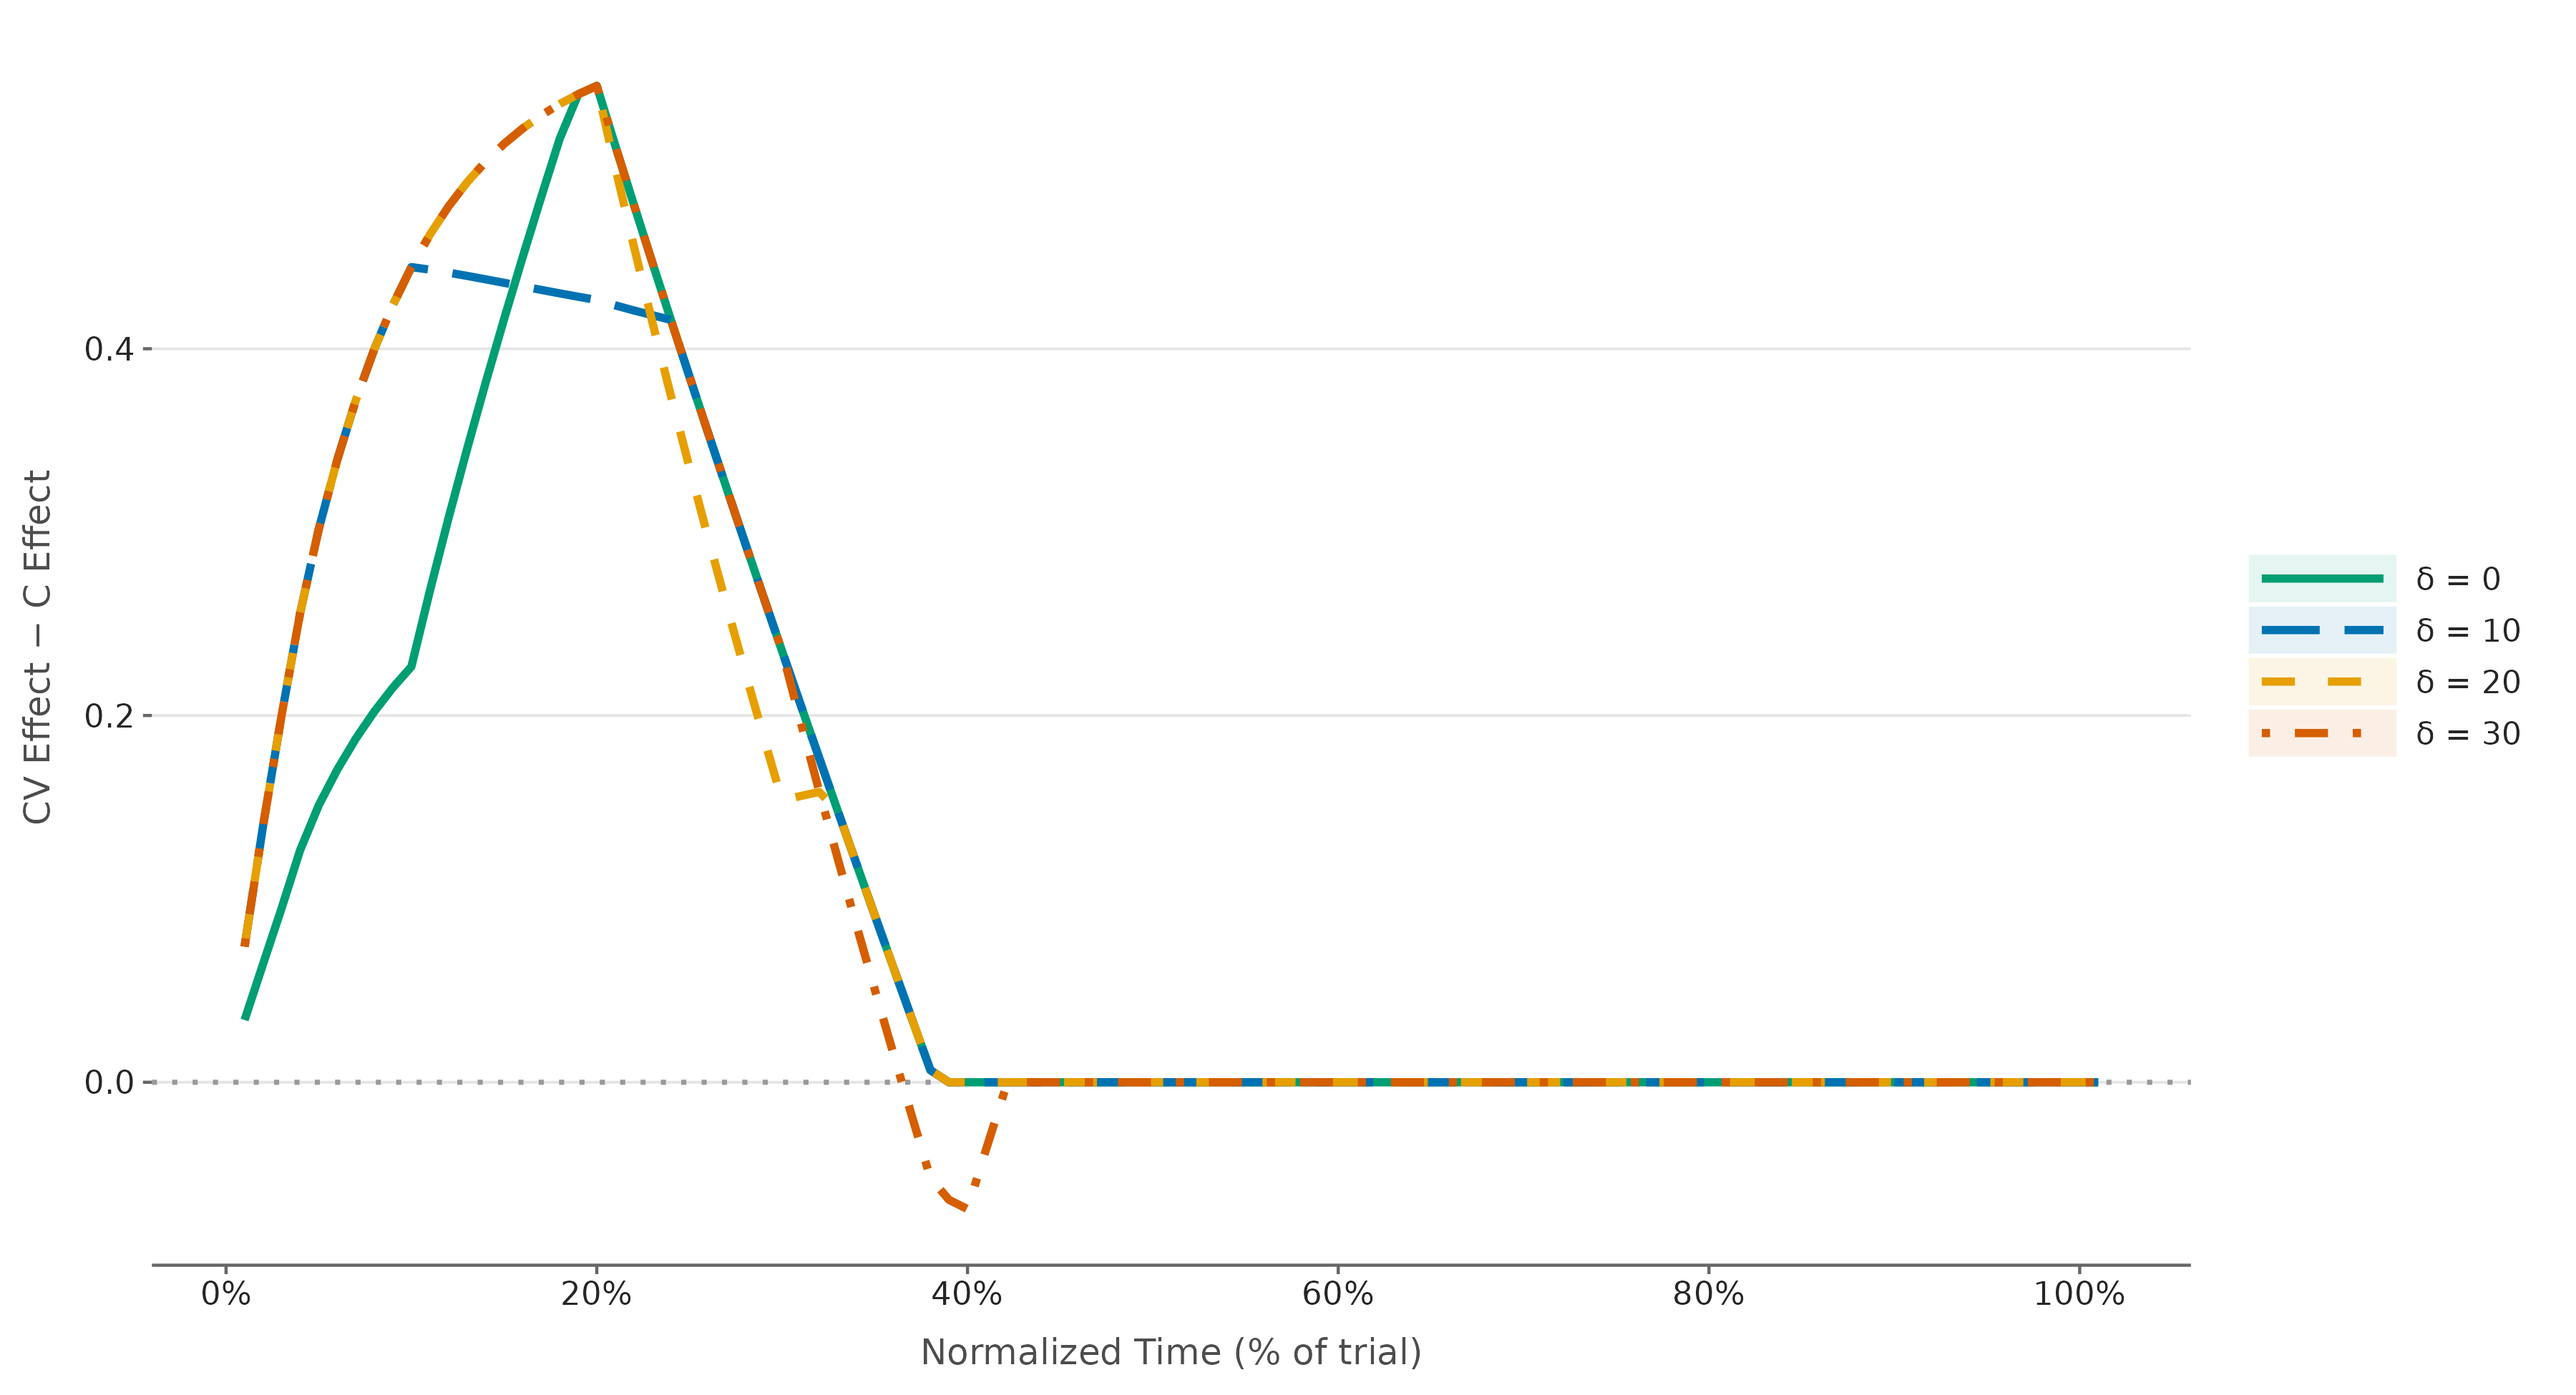
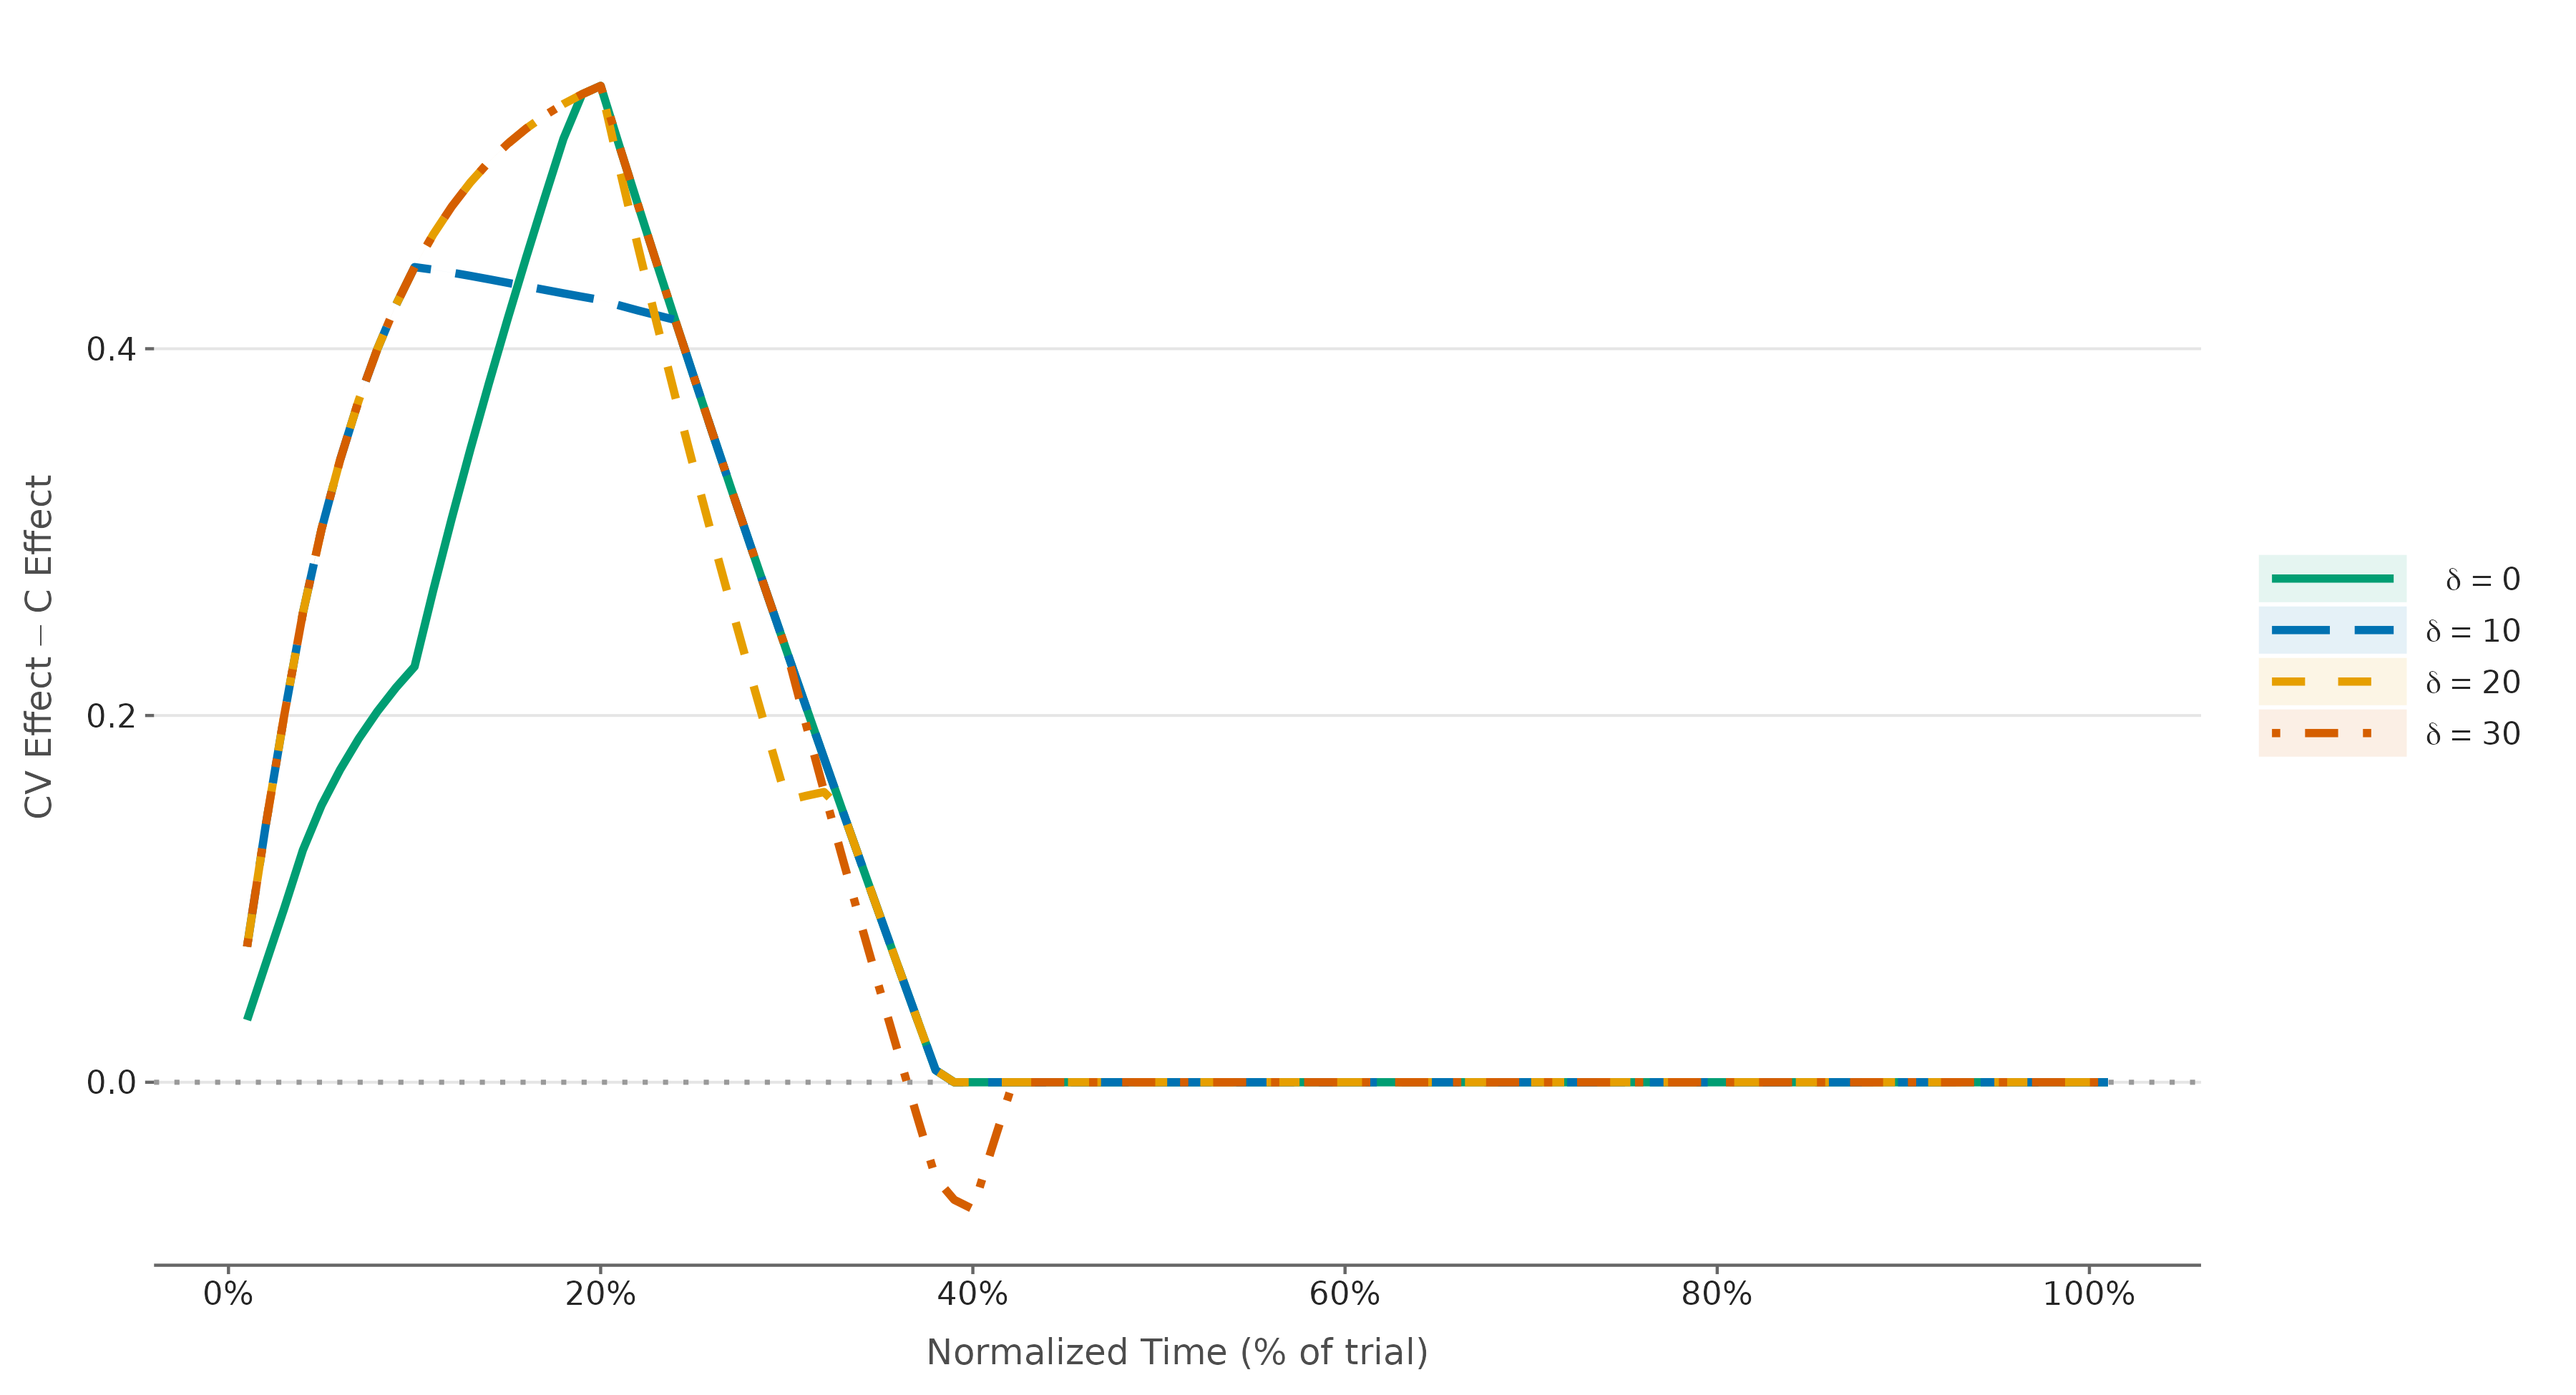
Fix delta labels on the pdf device (R 4.6)

diff --git a/NEWS.md b/NEWS.md
@@ -189,6 +189,16 @@ the first time.
 * `inst/extdata/linking_tests/linking_tests.R` reimplements the step-1
   update so that its reference runs match `run_simulation()` exactly.
 
+## Graphics devices
+
+* Labels of the form "delta = 0" (legends, panel titles, the onset-timing
+  axis) are now drawn with plotmath, and the minus and approximately-equal
+  signs in plot labels use ASCII or plotmath. All package plots therefore
+  render on the base `pdf()` device, which cannot encode a Unicode delta and,
+  in recent versions of R, stops with a conversion error instead of
+  substituting a dot. This also fixes the examples of `compare_languages()`
+  and `example_empirical()` under R CMD check on R 4.6.
+
 ## Other
 
 * New `example_stimuli()`, identical to `example_stimuli_jp()` (kept for
